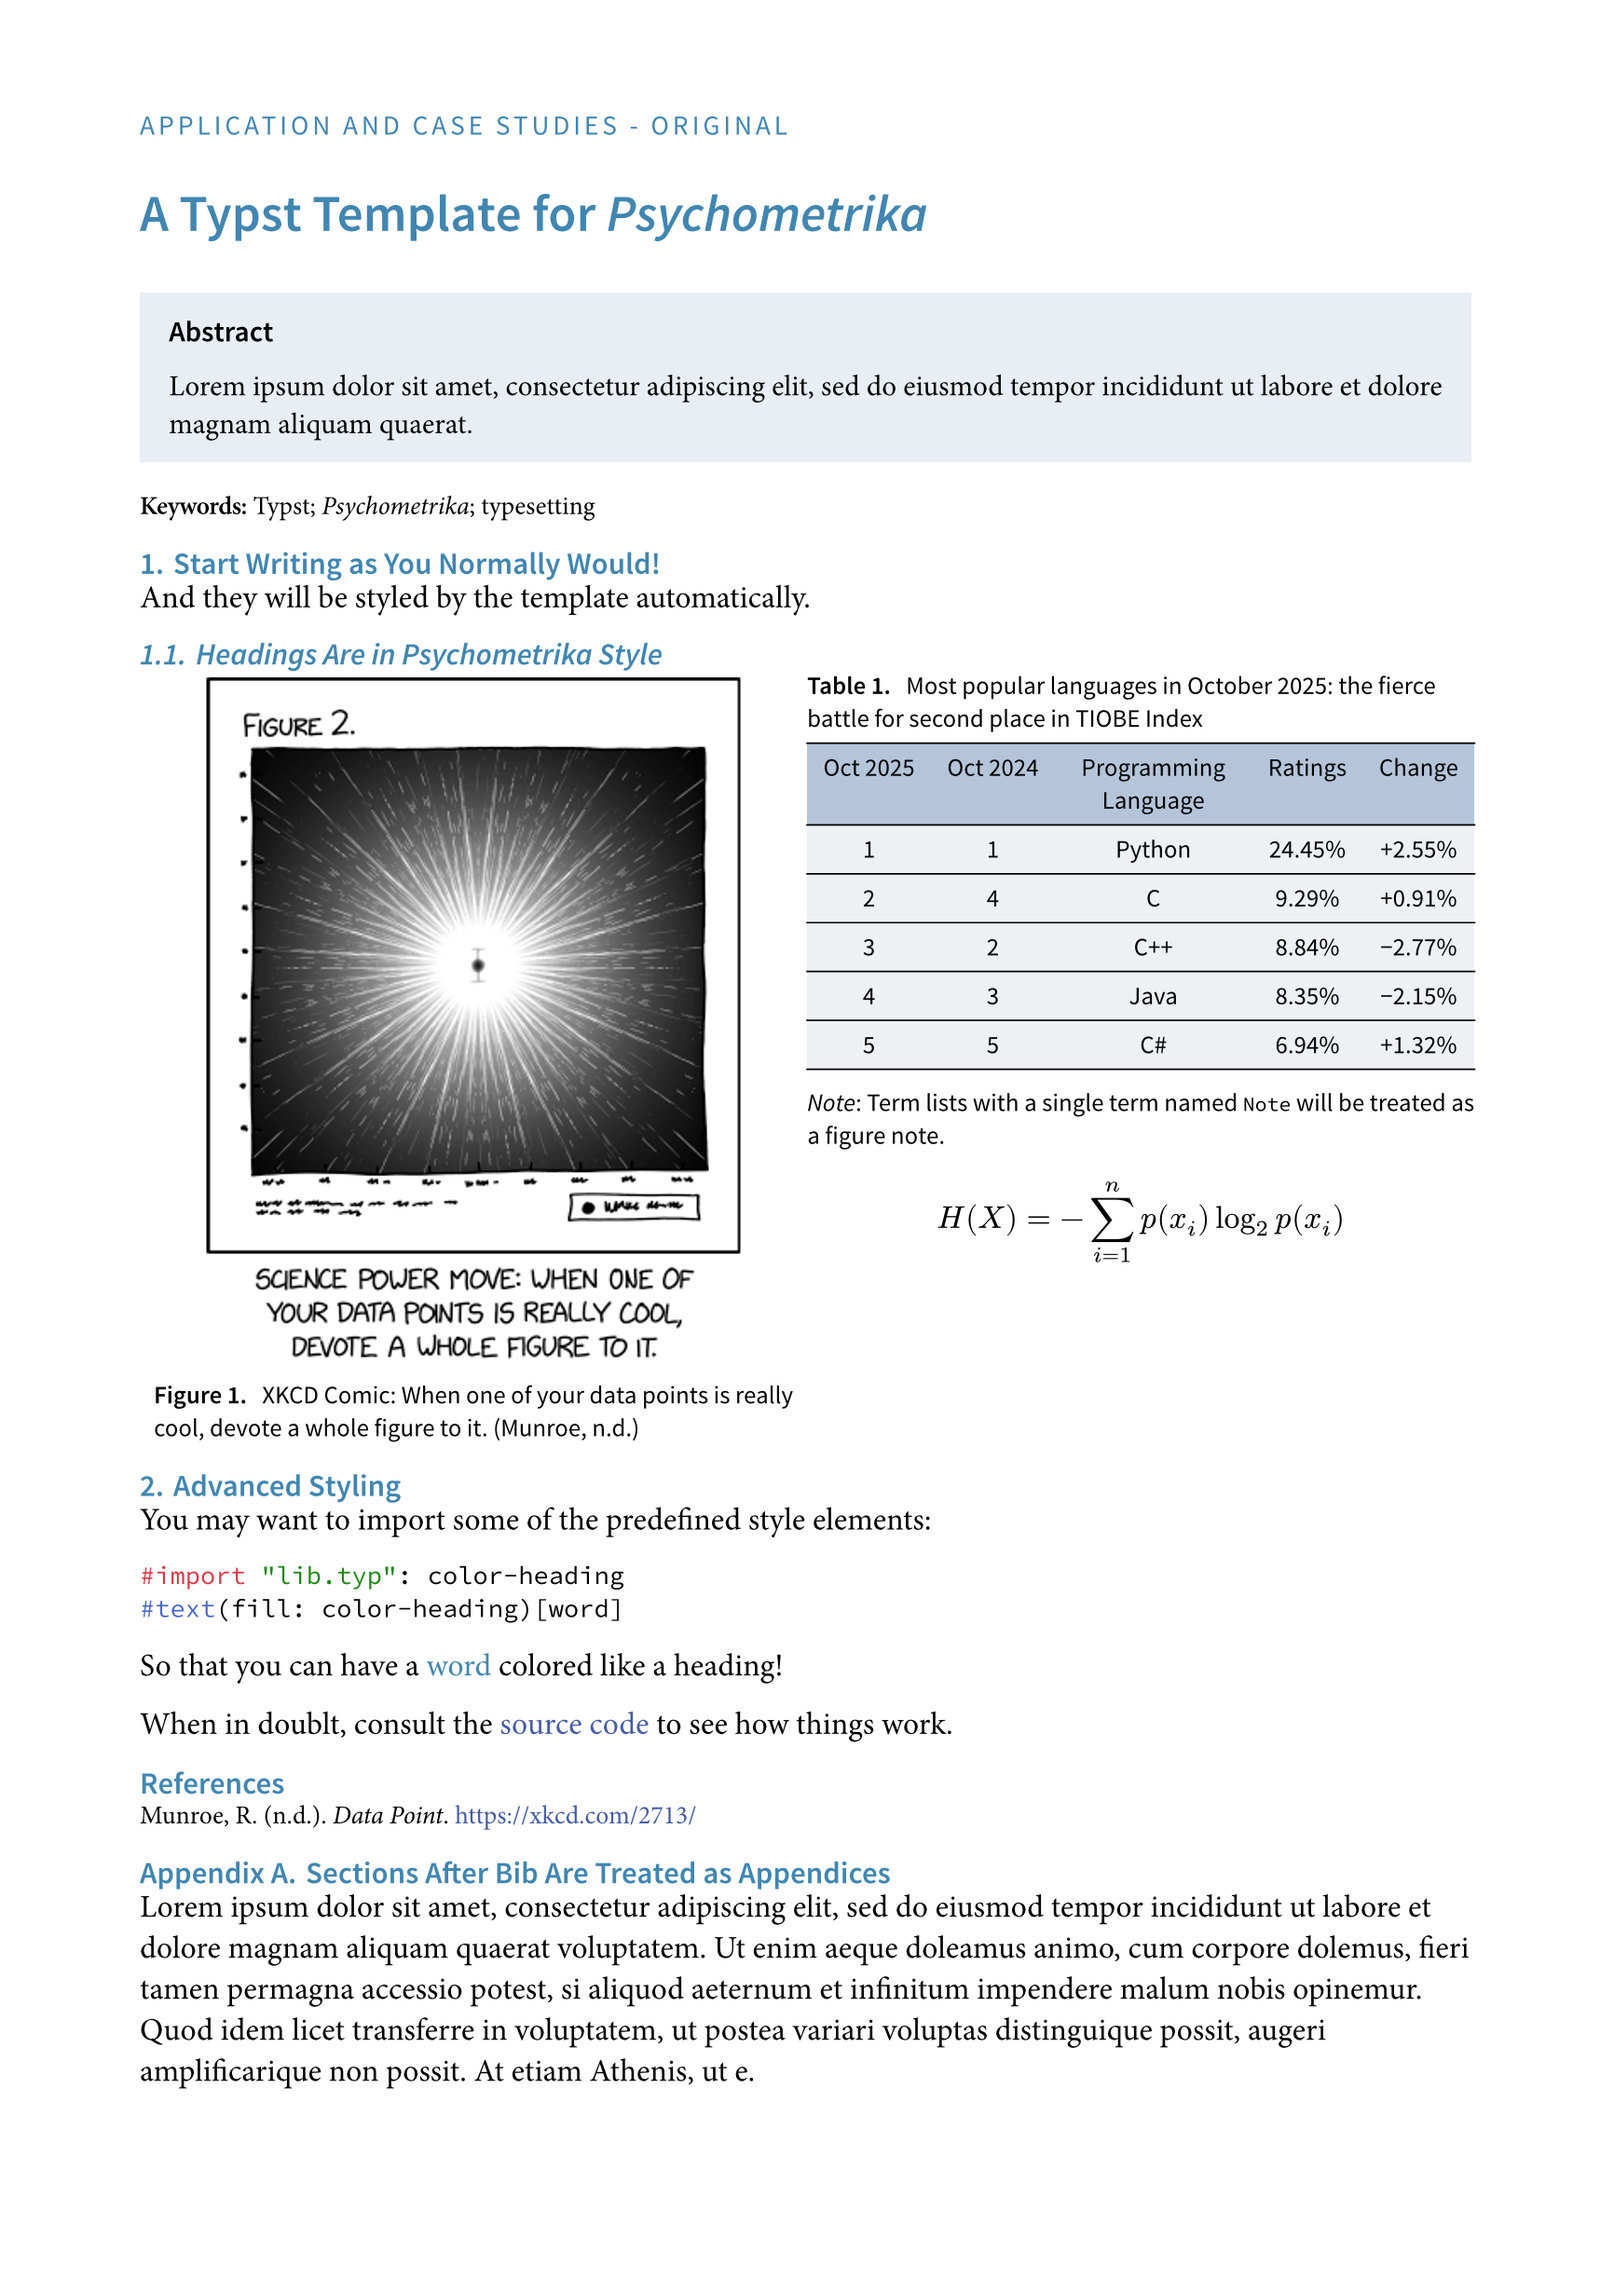
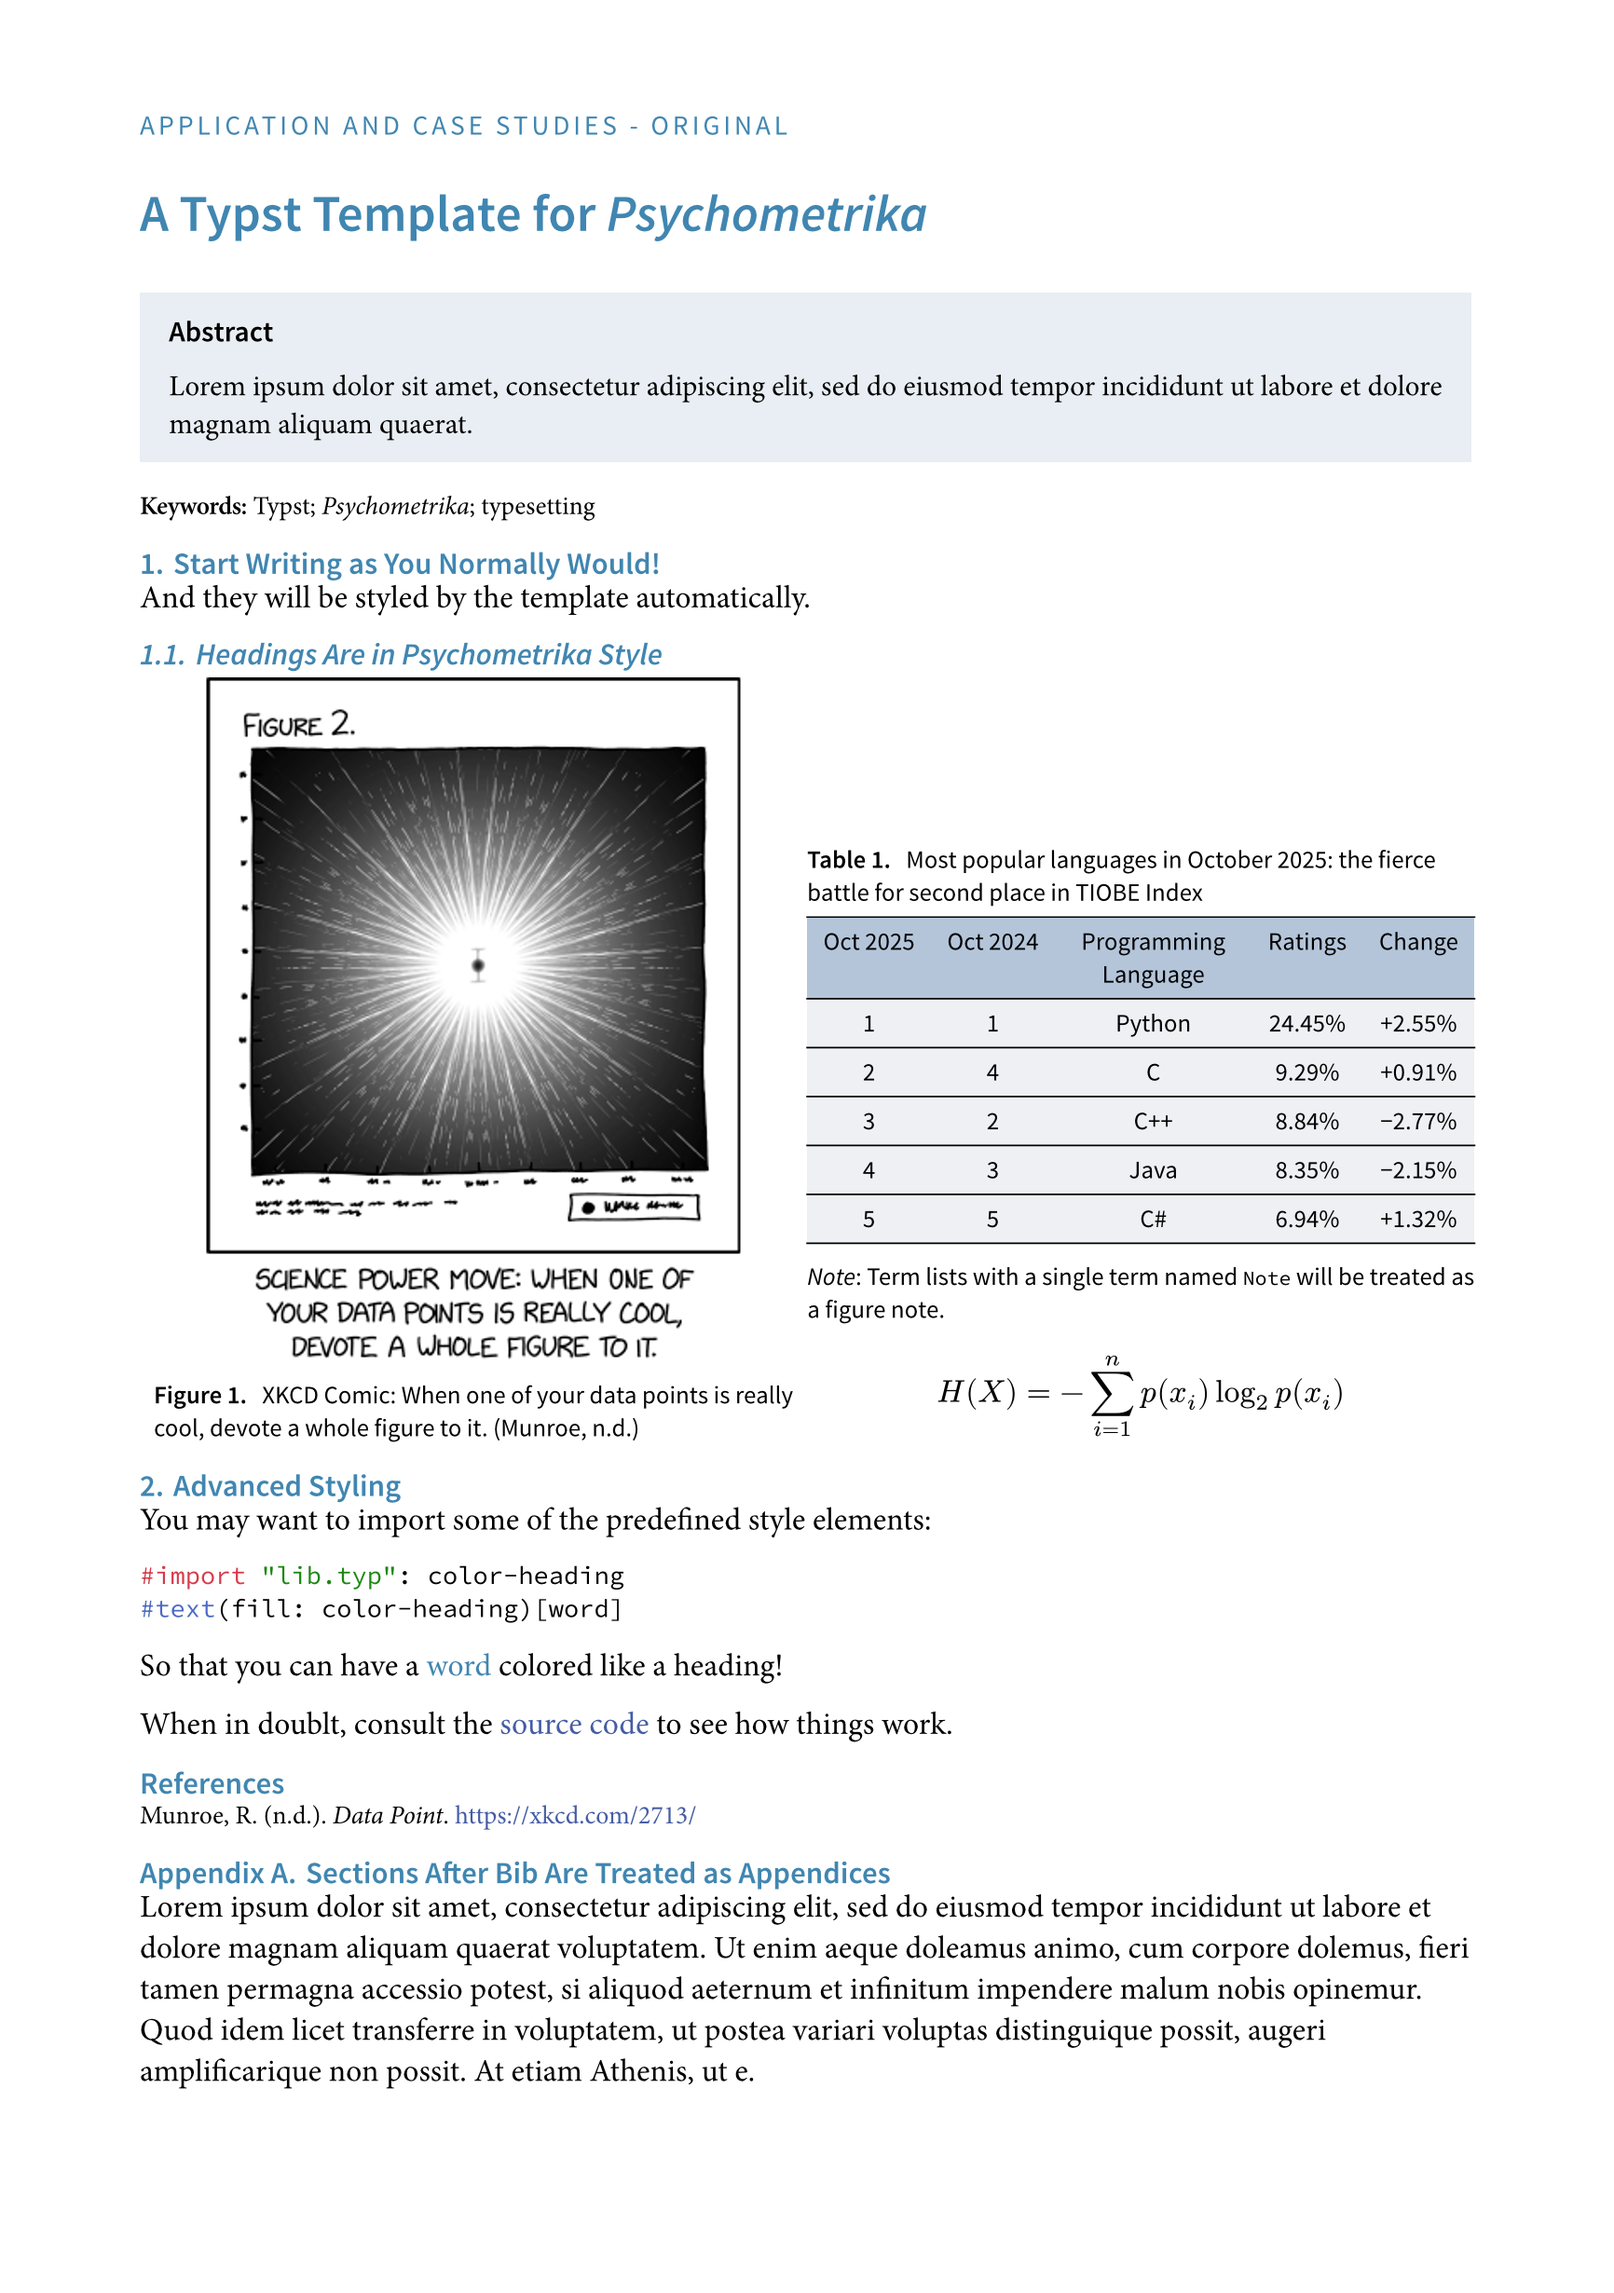
workaround to make figure note stick with figure

Changed region(s): [[0.4988, 0.2779, 0.9353, 0.5868], [0.7483, 0.5868, 0.7794, 0.6176], [0.6859, 0.5868, 0.7171, 0.6176]]

diff --git a/README.md b/README.md
@@ -44,6 +44,9 @@ most LaTeX packages.)
 - The table header color currently only applies to the first row instead of all
   cells wrapped in `table.header`. You will need to import `color-header`
   manually for some advanced coloring.
+- Caption note via `/ Note: ...` doesn't stick with the figure when
+  `placement: auto` is set. A workaround for this is described in the
+  accompanied template file.
 
 ## Support
 
